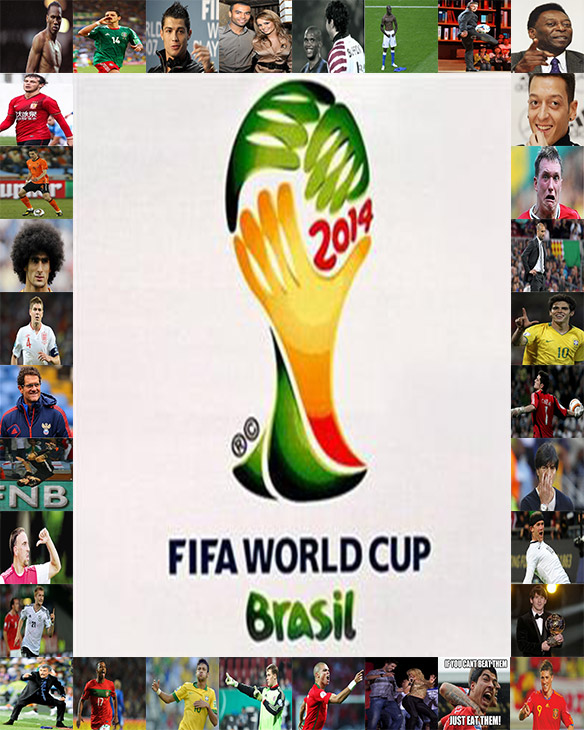
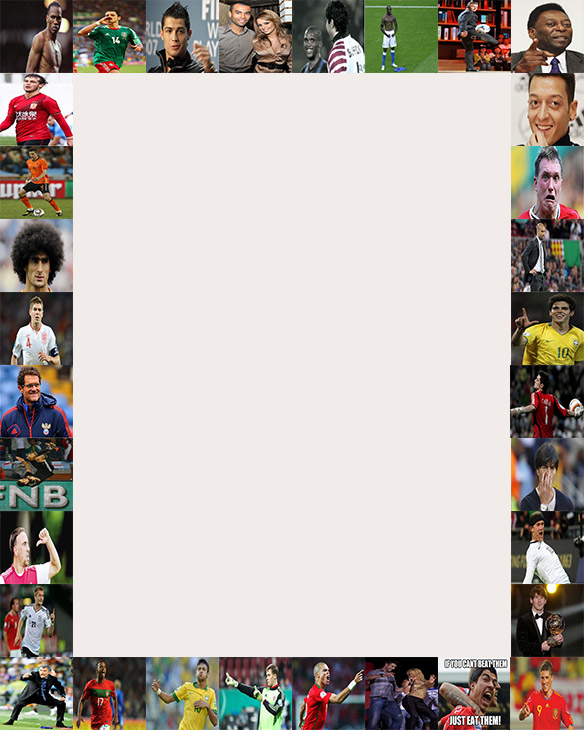
testgame

Changed region(s): [[0.3699, 0.0904, 0.6473, 0.6932], [0.2774, 0.7233, 0.7397, 0.9041]]

diff --git a/testgame/move.js b/testgame/move.js
@@ -1,12 +1,3 @@
-/*
-var result_arr=['你最适合支持的是喀麦隆','你最适合支持的是智利','你最适合支持的是厄瓜多尔','你最适合支持的是英格兰','你最适合支持的是荷兰','你最适合支持的是洪都拉斯','你最适合支持的是阿根廷','你最适合支持的是德国','你最适合支持的是尼日利亚','你最适合支持的是伊朗','你最适合支持的是加纳','你最适合支持的是阿尔及利亚','你最适合支持的是哥伦比亚','你最适合支持的是日本','你最适合支持的是希腊','你最适合支持的是乌拉圭','你最适合支持的是墨西哥','你最适合支持的是巴西','你最适合支持的是克罗地亚','你最适合支持的是西班牙','你最适合支持的是比利时','你最适合支持的是韩国','你最适合支持的是瑞士','你最适合支持的是哥斯达黎加','你最适合支持的是比利时','你最适合支持的是美国','你最适合支持的是意大利','你最适合支持的是澳大利亚','你最适合支持的是俄罗斯','你最适合支持的是葡萄牙','你最适合支持的是法国','你最适合支持的是波黑'];
-function show_result(){
-    var result_text=result_arr[1];
-    var username=$('#username').val();
-    $('.result-content').html("'"+username+"'"+result_text);
-    $('.wrapper-result').show();
-
-  }*/
 
 var index=1,           //当前亮区位置
 prevIndex=32,          //前一位置
@@ -14,12 +5,15 @@ Speed=300,           //初始速度
 Time,            //定义对象
 arr_length =32;          //初始化数组
 EndIndex=1,           //决定在哪一格变慢
-cycle=0,           //转动圈数   
+cycle=0,           //转动圈数
 EndCycle=3,           //计算圈数
 flag=false,           //结束转动标志
 random_num=1,      //中奖数
 quick=0;           //加速
 var result_arr=['你是德罗巴：不会唱歌的魔兽不是好德华','你是埃尔南德斯：必须有强烈的抢点意识才有资格卖萌','你是C罗:上场前抹发胶能进更多球哦~','你是阿什利科尔：看世界杯时不宜怀念前任','你是埃托奥：趁门将不备可出其不意放大招','你是巴洛特利：无论场内场外都不要让别人明白你在想什么','你是贝克汉姆：今年继续负责迷倒万千群众','你是贝利：不知大神今年看好谁夺冠？','你是厄齐尔：大眼哥哥放个电瞧瞧呗','你是菲尔琼斯：身体壮不如表情丰富更让观众铭记','你是瓜迪奥拉：教大家如何集齐七大中场召唤神龙','你是卡卡：优雅范上不了场照样招妹子惦记','你是卡西利亚斯：扑救超群+够man=国门','你是勒夫：人太帅吃鼻屎都不会影响形象','你是鲁尼：有史莱克般的雄心，头发就是浮云','你是梅西：取个“球王”的外号，队友会传球给你的','你是托雷斯：必要时可打开”人生赢家“光环','你是苏亚雷斯：进攻受阻时可亮出生吃绝招','你是皮克：中场休息时让女朋友给你唱个小曲儿，但首先。。','你是佩佩：练好中国功夫必能响彻球坛','你是诺伊尔：好的门将，要勇于兼职中场','你是内马尔: 用速度把对手累趴','你是纳尼：需重点提防日本队','你是穆里尼奥：去看球一定要选择乘坐大巴出行','你是罗伊斯：小清新式的杀伤力不可小觑','你是里贝里：面带刀疤能有效震慑对方防守队员 ','你是克洛泽：庆祝时要空翻才牛逼  ','你是卡佩罗：记清夫人们的名字有利于团结作战','你是杰拉德：不可滑倒且回传要留心','你是费莱尼：烫个蓬蓬头能加强争顶优势','你是范佩西：横刀立马，唯范大将军','你是迪亚曼蒂：天热看球要喝冰泉才能解暑'];   
+
+
+
 function StartGame(){
 	//判断输入框
 	name=$('#username').val();
@@ -71,6 +65,7 @@ function Star(num){
        var result_text=result_arr[index-1];
       var username=$('#username').val();
        $('.result-content').html("'"+username+"'"+result_text);
+       $('.pic').html('<img src="images/'+index+'.jpg">');
       $('.wrapper-result').show();
       $(document).click(function(){
           $('.wrapper-result').hide();

diff --git a/testgame/style.css b/testgame/style.css
@@ -7,8 +7,8 @@ h1{width: 510px;margin:0 auto;}
 .inbox{ width:590px; height:730px;position:relative;}
 
 .wrapper-result{position: fixed;top: 0;left: 0;width: 100%;height: 100%;background: rgba(0,0,0,0.3);margin:0 auto;z-index: 9999;}
-#result{width:500px;margin: 0 auto;min-height: 6em;height: auto;border:3px solid #ff6567;border-radius: 2em;margin-top: 15em;background: #ffffff;padding-bottom: 1em;}
-.result-content{padding: 0 1em;font-size: 2em;padding-bottom: 0.5em;text-align: center;padding-top: 2em;color: #da4f49;}
+#result{width:500px;margin: 0 auto;min-height: 6em;height: auto;border:3px solid #ff6567;border-radius: 2em;margin-top: 28em;background: #ffffff;padding-bottom: 1em;}
+.result-content{padding: 0 1em;font-size: 1.5em;padding-bottom: 0.5em;padding-bottom: 1.5em;text-align: center;padding-top: 2em;color: #da4f49;}
 #info{display: none;}
 /*random_box module*/
 #random_box li{ position:absolute; width:73px; overflow:hidden; height:73px; }
@@ -49,7 +49,8 @@ h1{width: 510px;margin:0 auto;}
 #random_box li.random_current{border:2px solid red;}
 /*random module end*/
 
-.tool-button{margin:0 auto;position: absolute;text-align: center;top: 250px;width: 570px;}
+.tool-button{margin:0 auto;position: absolute;text-align: center;top: 400px;width: 570px;}
 #username{border-radius: 1em;border:2px solid #ccc;font-size: 30px;height: 36px;line-height: 36px;padding: 8px 0.5em;width: 7em;}
-.ok{width: 100px;height: 3em;line-height: 3em;background: #ff6567;border-radius: 1em;color: #fff;margin:0 auto;margin-top: 2em;}
+.ok{width: 100px;height: 3.5em;line-height: 3.5em;background: #ff6567;border-radius: 1em;color: #fff;margin:0 auto;margin-top: 2em;}
 
+.pic{position: absolute;width: 200px;height: 200px;left: 11em;top: 8em;}

diff --git a/testgame/index_football.html b/testgame/index_football.html
@@ -49,11 +49,12 @@
   					<li id="random_30"></li>
    					<li id="random_31"></li>
    					<li id="random_32"></li>
-
   				</ul>
+          <div class="pic">
+            <img src="images/logo.jpg"  />
+          </div>
   				<div class="tool-button">
-  					<input id="username" type="text" placeholder="输入名字" name="username" required="required">
-  					</input>
+  					<input id="username" type="text" placeholder="输入名字" name="username" required="required"/>
   					<p class="ok" onClick="StartGame()">开始测试</p>
   				</div>
  			</div>
